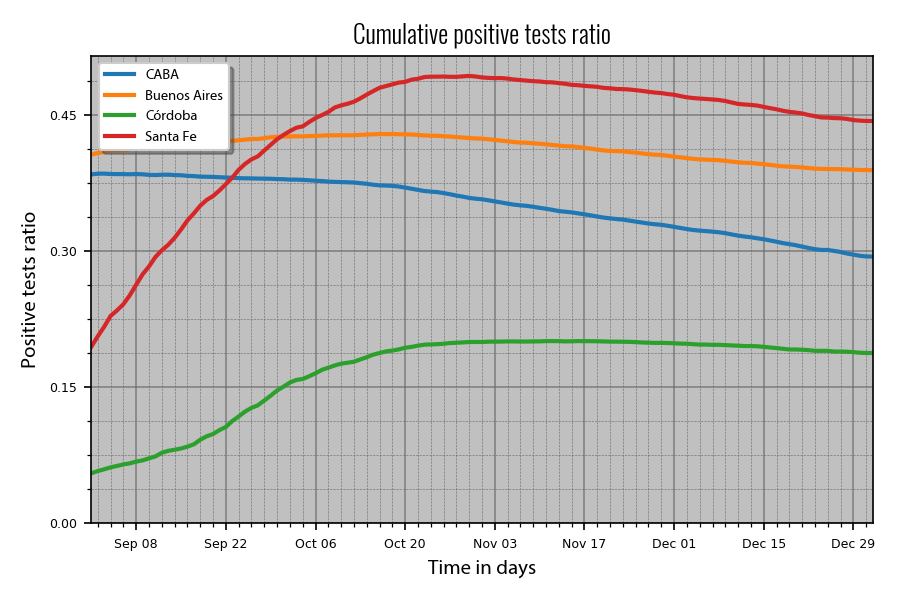
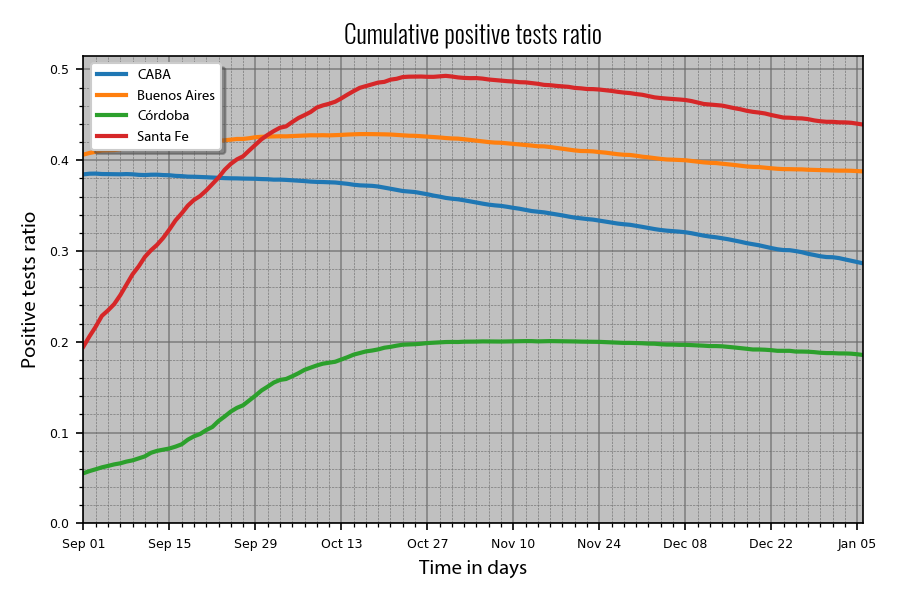
Updating testing charts...

Changed region(s): [[0.0622, 0.03, 0.9956, 0.96]]

diff --git a/COVID-19_DataGobAr_TestsAnalysis.py b/COVID-19_DataGobAr_TestsAnalysis.py
@@ -22,15 +22,15 @@ chartPath = "Argentina_Data/actual_charts/testing/"
 colorlist = ["orange", "tab:blue", "tab:red", "tab:green"]
 
 dataStartDate = "2020-02-11"
-dataEndDate = "2021-01-04"
+dataEndDate = "2021-01-10"
 wantedStartDate = "2020-09-01"
-wantedEndDate = "2021-01-01"
+wantedEndDate = "2021-01-06"
 dataPeriod = pd.date_range(dataStartDate, dataEndDate)
 plotScale = "linear"
 
 #Deciding language for titles and tags...
 lg = 0 # 0 for english, 1 for spanish
-ticksSizes = [1000, 150000, 0.15, 30000]
+ticksSizes = [1500, 250000, 0.1, 100000]
 
 #Deciding if you want to save and show charts...
 saveChart = True
